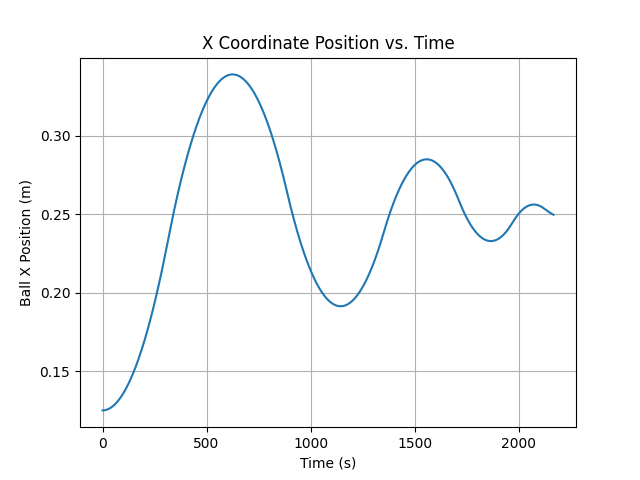
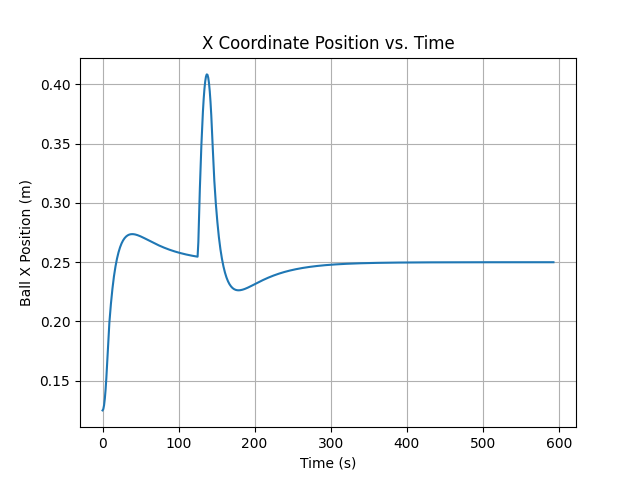
Added force buttons

diff --git a/custom_simulation/main.py b/custom_simulation/main.py
@@ -1,14 +1,16 @@
-# LIBRARY IMPORTS
-from utility_functions import pixelMeasurementToMetresMeasurement, metresMeasurementToPixelMeasurement
-from gui import createPlatformGUI, createLegsGUI
+# ================ LIBRARY IMPORTS ================
+
+# Personally Created Libraries
+from utility_functions import pixelMeasurementToMetresMeasurement, metresMeasurementToPixelMeasurement, calculateAllImportantPoints
+from gui import createPlatformGUI, createLegsGUI, createButtonGUI
 from ball_object import Ball
 from platform_object import Platform
 from pid import PID_Controller
 from dynamics_and_kinematics import angleOfTiltToAcceleration, distanceMoved, finalVelocity
 from plot_data import plotPidOutputAndBallPositionTimeseries, plotBallPositionTimeseries
 
-import time
-
+# Third Party Libraries
+from tkinter import *
 
 # ================ CONSTANTS ================
 
@@ -19,33 +21,45 @@ screenHeight = 500  # pixels
 # Environment
 gravity = 9.81  # m/s^s
 distanceScale = screenWidth * 2  # 1 metre = 1000 pixels
-sampleTime = 0.025
+sampleTime = 0.025  # Rate at which the position measurements occur
+appliedAcceleration = 40000.0  # pixels/s^2 - The acceleration value that is applied to the ball when a button is clicked
 
 # Ball Properties
 ballMass = 0.45  # kg
 ballRadius = 0.02  # metres
 
 # Platform Preconditions
-startingPlatformAngleOfRotationInX = 0  # 0 degrees
-startingPlatformAngleOfRotationInY = 0  # 0 degrees
+startingPlatformAngleOfRotationInX = 0  # degrees
+startingPlatformAngleOfRotationInY = 0  # degrees
 
 # Ball Preconditions
-startingXPosition = screenWidth / 4  # pixels
-startingYPosition = screenHeight / 4  # pixels
+startingXPosition = screenWidth * 3/4  # pixels
+startingYPosition = screenHeight * 3/4  # pixels
 startingXVelocity = 0  # pixels/s
 startingYVelocity = 0  # pixels/s
 startingXAcceleration = 0  # pixels/s^2
 startingYAcceleration = 0  # pixels/s^2
 
 # PID Properties
-kp = 10
-ki = 0.005
-kd = 7
-outputLowerLimit = -30  # degrees
-outputUpperLimit = 30  # degrees
-setPointX = screenWidth/2  # pixels
-setPointY = screenHeight/2  # pixels
+kp = 1  # Proportional gain
+ki = 0.8  # Integral gain
+kd = 0.25  # Derivative gain
+outputLowerLimit = -30  # degrees - Sets the minimum angle of platform rotation
+outputUpperLimit = 30  # degrees - Sets the maximum angle of platform rotation
+setPointX = screenWidth/2  # pixels - Where you want the ball to end up in the X coordinate system
+setPointY = screenHeight/2  # pixels - Where you want the ball to end up in the Y coordinate system
 
+# Leg Constants
+distanceScaleLegs = screenWidth * 4  # 1 metre = 2000 pixels
+margin = 100  # Offsets drawings so that they aren't next to the GUI border
+L1 = 0.0225  # 22.5 mm - Length of the lower link
+L2 = 0.120  # 120 mm - Length of the upper link
+platformWidth = 0.160  # 160 mm
+halfPlatformWidth = platformWidth / 2
+rotationPointRadius = 5  # For drawings
+origin_x = margin
+origin_y = (screenHeight - margin)
+theta = 30
 
 # ================ CREATING MONITORING OBJECTS ================
 
@@ -61,12 +75,12 @@ systemData = {
 
 # Setting the measured distance value that is close enough 
 # to the set point for it to be considered as satisfactory
-nearSetpointCriteria = 1  # pixels
+nearSetpointCriteria = 5  # pixels
 
 # Setting the number of consequtive setpoint satisfactions
 # it will take for the system to end the program and display
 # the plots
-simulationFinished = 50  # Ball needs to be near the setpoint for 2 seconds straight
+simulationFinished = 200  # Ball needs to be near the setpoint for 2 seconds straight
 
 timeCyclesCounter = 0
 timeSeries = []  # Will be a list of the timestamps throughout the simulation
@@ -117,14 +131,99 @@ pidY = PID_Controller(
 tkRoot, canvas = createPlatformGUI(screenWidth, screenHeight)
 
 # Creating the first leg GUI
-windowLeg1, leg1Canvas = createLegsGUI(1, screenWidth=screenWidth, screenHeight=screenHeight)
-
+legXWindow, legXCanvas = createLegsGUI(1, screenWidth=screenWidth, screenHeight=screenHeight)
 
 # Creating the second leg GUI
-windowLeg2, leg2Canvas = createLegsGUI(2, screenWidth=screenWidth, screenHeight=screenHeight)# windowLeg2, leg2Canvas = createLegsGUI()
+legYWindow, legYCanvas = createLegsGUI(2, screenWidth=screenWidth, screenHeight=screenHeight)
+
+# Creating the button GUI
+buttonsWindow, buttonsCanvas = createButtonGUI(screenWidth=screenWidth, screenHeight=screenHeight)
+
+# ================ DRAWING INITIAL CANVAS OBJECTS ================
 
 # Drawing the ball in it's initial location
 ballOval = canvas.create_oval(ball.xPosition - ball.radius, ball.yPosition - ball.radius, ball.xPosition + ball.radius, ball.yPosition + ball.radius, fill='red')
+
+# Calculating important points for the legs GUI
+x1, y1, x2, y2, x3, y3, x4, y4 = calculateAllImportantPoints(origin_x, origin_y, distanceScaleLegs, halfPlatformWidth, platform.angleOfRotationInX, theta, L1)
+# Drawing platform rotation point on leg X canvas
+platformRotationPointLegX = legXCanvas.create_oval(x3 - rotationPointRadius, y3 - rotationPointRadius, x3 + rotationPointRadius, y3 + rotationPointRadius, fill='black')
+# Drawing platform rotation point on leg X canvas
+platformRotationPointLegY = legYCanvas.create_oval(x3 - rotationPointRadius, y3 - rotationPointRadius, x3 + rotationPointRadius, y3 + rotationPointRadius, fill='black')
+# Drawing platform line 1 on leg X canvas
+platformLine1LegX = legXCanvas.create_line(x2, y2, x3, y3, width=5)
+# Drawing platform line 2 on leg X canvas
+platformLine2LegX = legXCanvas.create_line(x3, y3, x4, y4, width=5)
+# Drawing platform line 1 on leg Y canvas
+platformLine1LegY = legYCanvas.create_line(x2, y2, x3, y3, width=5)
+# Drawing platform line 2 on leg Y canvas
+platformLine2LegY = legYCanvas.create_line(x3, y3, x4, y4, width=5)
+
+def applyForceInPositiveX():
+    print("Applying Force In +X")
+    ball.xAcceleration = appliedAcceleration
+
+def applyForceInNegativeX():
+    print("Applying Force In -X")
+    ball.xAcceleration = (-1) * appliedAcceleration
+
+def applyForceInPositiveY():
+    print("Applying Force In -Y")
+    ball.yAcceleration = appliedAcceleration
+
+def applyForceInNegativeY():
+    print("Applying Force In +Y")
+    ball.yAcceleration = (-1) * appliedAcceleration
+
+
+# Creating buttons on the button window
+# Note that, from the viewer's perspective, the Y directions are flipped and because of
+# this, the button labels and print messages in the Y direction are also flipped
+forceInPositiveXButton = Button(buttonsWindow, text="Apply Force In +X", command=applyForceInPositiveX).grid()
+forceInNegativeXButton = Button(buttonsWindow, text="Apply Force In -X", command=applyForceInNegativeX).grid()
+forceInNegativeYButton = Button(buttonsWindow, text="Apply Force In +Y", command=applyForceInNegativeY).grid()
+forceInPositiveYButton = Button(buttonsWindow, text="Apply Force In -Y", command=applyForceInPositiveY).grid()
+
+
+def updateLegX(alpha, theta=30):
+    # Defining global variables
+    global legXWindow, legXCanvas
+    global x1, y1, x2, y2, x3, y3, x4, y4
+    global platformLine1LegX, platformLine2LegX
+
+    x1, y1, x2, y2, x3, y3, x4, y4 = calculateAllImportantPoints(origin_x, origin_y, distanceScaleLegs, halfPlatformWidth, alpha, theta, L1)
+
+    # ================ RE-DRAWING SYSTEM ================
+
+    # Removing everything
+    legXCanvas.delete(platformLine1LegX)
+    legXCanvas.delete(platformLine2LegX)
+
+    # Platform Line 1
+    platformLine1LegX = legXCanvas.create_line(x2, y2, x3, y3, width=5)
+    # Platform Line 2
+    platformLine2LegX = legXCanvas.create_line(x3, y3, x4, y4, width=5)
+
+
+def updateLegY(alpha, theta=30):
+    # Defining global variables
+    global legYWindow, legYCanvas
+    global x1, y1, x2, y2, x3, y3, x4, y4
+    global platformLine1LegY, platformLine2LegY
+
+    x1, y1, x2, y2, x3, y3, x4, y4 = calculateAllImportantPoints(origin_x, origin_y, distanceScaleLegs, halfPlatformWidth, alpha, theta, L1)
+
+    # ================ RE-DRAWING SYSTEM ================
+
+    # Removing everything
+    legYCanvas.delete(platformLine1LegY)
+    legYCanvas.delete(platformLine2LegY)
+
+    # Platform Line 1
+    platformLine1LegY = legYCanvas.create_line(x2, y2, x3, y3, width=5)
+    # Platform Line 2
+    platformLine2LegY = legYCanvas.create_line(x3, y3, x4, y4, width=5)
+
 
 def controller():
     # Defining global variables
@@ -153,14 +252,18 @@ def controller():
     # to be considered satisfactory
     if abs(ball.xPosition - setPointX) <= nearSetpointCriteria:
         systemData['xAccuracy']['consequtiveMeasurmentsNearSetpoint'] += 1
+    else:
+        systemData['xAccuracy']['consequtiveMeasurmentsNearSetpoint'] = 0
     
     if abs(ball.yPosition - setPointY) <= nearSetpointCriteria:
         systemData['yAccuracy']['consequtiveMeasurmentsNearSetpoint'] += 1
+    else:
+        systemData['yAccuracy']['consequtiveMeasurmentsNearSetpoint'] = 0
     
     # Checking to see if the ball has been near the setpoint (in both the x and y coordinate)
     # for the simulation to end and for the plots to be shown
-    xCondition = systemData['xAccuracy']['consequtiveMeasurmentsNearSetpoint'] == simulationFinished
-    yCondition = systemData['yAccuracy']['consequtiveMeasurmentsNearSetpoint'] == simulationFinished
+    xCondition = systemData['xAccuracy']['consequtiveMeasurmentsNearSetpoint'] > simulationFinished
+    yCondition = systemData['yAccuracy']['consequtiveMeasurmentsNearSetpoint'] > simulationFinished
 
     if xCondition and yCondition:
         # Ball has been at the setpoint for a sufficient amount of time
@@ -168,10 +271,10 @@ def controller():
         # tkRootLegs.destroy()
 
         # Create plots
-        # plotPidOutputAndPositionTimeseries('X', timeSeries, positionXData, pidXOutputData)
-        # plotPidOutputAndPositionTimeseries('Y', timeSeries, positionYData, pidYOutputData)
-        plotBallPositionTimeseries('X', timeSeries, positionXData)
-        plotBallPositionTimeseries('Y', timeSeries, positionYData)
+        plotPidOutputAndBallPositionTimeseries('X', timeSeries, positionXData, pidXOutputData)
+        plotPidOutputAndBallPositionTimeseries('Y', timeSeries, positionYData, pidYOutputData)
+        # plotBallPositionTimeseries('X', timeSeries, positionXData)
+        # plotBallPositionTimeseries('Y', timeSeries, positionYData)
 
         exit()
     
@@ -200,10 +303,12 @@ def controller():
         # of tilts to the outputs of the PID controllers
         platform.angleOfRotationInX = pidX.getOutput(ball.xPosition)
         platform.angleOfRotationInY = pidY.getOutput(ball.yPosition)
+        updateLegX(platform.angleOfRotationInX)
+        updateLegY(platform.angleOfRotationInY)
 
         # Updating the ball acceleration states
-        ball.xAcceleration = angleOfTiltToAcceleration(gravity, platform.angleOfRotationInX)
-        ball.yAcceleration = angleOfTiltToAcceleration(gravity, platform.angleOfRotationInY)
+        ball.xAcceleration = metresMeasurementToPixelMeasurement(distanceScale, angleOfTiltToAcceleration(gravity, platform.angleOfRotationInX))
+        ball.yAcceleration = metresMeasurementToPixelMeasurement(distanceScale, angleOfTiltToAcceleration(gravity, platform.angleOfRotationInY))
 
         # Adding the calculated values to the data lists
         timeSeries.append(timeCyclesCounter)
@@ -217,7 +322,7 @@ def controller():
         tkRoot.after(int(sampleTime*1000), controller)  # Re-run this function after interval (in milliseconds)
 
 
-tkRoot.after(3000, controller)  # Begin the loop of getting control feedback
+tkRoot.after(15000, controller)  # Begin the loop of getting control feedback
 
 # Running the GUI
 tkRoot.mainloop()

diff --git a/custom_simulation/gui.py b/custom_simulation/gui.py
@@ -24,64 +24,25 @@ def createPlatformGUI(screenWidth=500, screenHeight=500):
     return tkRoot, rootCanvas
 
 def createLegsGUI(legNumber, screenWidth=500, screenHeight=500, theta=30, alpha=7.854):
-    # Constants
-    distanceScaleLegs = screenWidth * 4  # 1 metre = 2000 pixels
-    margin = 100
-    L1 = 0.0225  # 22.5 mm
-    L2 = 0.120  # 120 mm
-    platformWidth = 0.160  # 160 mm
-    halfPlatformWidth = platformWidth / 2
-    rotationPointRadius = 5
-
     # Creating the legs window
     legsWindow = Toplevel()
     legsWindow.title("Leg " + str(legNumber) + " Simulation")
 
-    # Creating root canvas
-    legsCanvas = Canvas(legsWindow, width=screenWidth, height=screenHeight)
-    legsCanvas.pack()
-
-    # ================ IMPORTANT POINTS ================
-
-    # Origin
-    origin_x = margin
-    origin_y = (screenHeight - margin)
-
-    # (x1, y1)
-    x1 = origin_x + (metresMeasurementToPixelMeasurement(distanceScaleLegs, L1) * math.cos(math.radians(theta)))
-    y1 = origin_y - (metresMeasurementToPixelMeasurement(distanceScaleLegs, L1) * math.sin(math.radians(theta)))
-
-    # (x3, y3)
-    x3 = origin_x + (metresMeasurementToPixelMeasurement(distanceScaleLegs, 0.090) * math.cos(math.radians(theta)))
-    y3 = origin_y - (metresMeasurementToPixelMeasurement(distanceScaleLegs, 0.120) * math.sin(math.radians(theta)))
-
-    # (x2, y2)
-    x2 = x3 - ((metresMeasurementToPixelMeasurement(distanceScaleLegs, halfPlatformWidth)) * math.cos(math.radians(alpha)))
-    y2 = y3 - ((metresMeasurementToPixelMeasurement(distanceScaleLegs, halfPlatformWidth)) * math.sin(math.radians(alpha)))
-
-    # (x4, y4)
-    x4 = x3 + ((metresMeasurementToPixelMeasurement(distanceScaleLegs, halfPlatformWidth)) * math.cos(math.radians(alpha)))
-    y4 = y3 + ((metresMeasurementToPixelMeasurement(distanceScaleLegs, halfPlatformWidth)) * math.sin(math.radians(alpha)))
-
-    # ================ DRAWING SYSTEM ================
-
-    # Servo Rotation Point
-    servoRotationPoint = legsCanvas.create_oval(origin_x - rotationPointRadius, origin_y - rotationPointRadius, origin_x + rotationPointRadius, origin_y + rotationPointRadius, fill='black')
-
-    # Lower Link
-    lowerLinkLine = legsCanvas.create_line(origin_x, origin_y, x1, y1, width=5)
-
-    # Upper Link
-    upperLinkLine = legsCanvas.create_line(x1, y1, x2, y2, width=5)
-
-    # Platform Rotation Point
-    platformRotationPoint = legsCanvas.create_oval(x3 - rotationPointRadius, y3 - rotationPointRadius, x3 + rotationPointRadius, y3 + rotationPointRadius, fill='black')
-
-    # Platform Line 1
-    platformLine1 = legsCanvas.create_line(x2, y2, x3, y3, width=5)
-
-    # Platform Line 2
-    platformLine2 = legsCanvas.create_line(x3, y3, x4, y4, width=5)
+    # Creating the leg canvas
+    legCanvas = Canvas(legsWindow, width=screenWidth, height=screenHeight)
+    legCanvas.pack()
 
     # Returning the new window
-    return legsWindow, legsCanvas
+    return legsWindow, legCanvas
+
+
+def createButtonGUI(screenWidth=500, screenHeight=500):
+    # Creating the buttons window
+    buttonsWindow = Toplevel()
+    buttonsWindow.title("Move The Ball")
+
+    # Creating the button canvas
+    buttonCanvas = Canvas(buttonsWindow, width=screenWidth, height=screenHeight)
+
+    # Returning the new window
+    return buttonsWindow, buttonCanvas

diff --git a/custom_simulation/utility_functions.py b/custom_simulation/utility_functions.py
@@ -1,3 +1,4 @@
+import math
 
 '''
     These conversion functions assume the distance scale is in pixels per metre
@@ -32,3 +33,27 @@ def printProgressBar (iteration, total, prefix='', suffix='', decimals=1, length
     # Print New Line on Complete
     if iteration == total:
         print()
+
+
+def calculateAllImportantPoints(origin_x, origin_y, distanceScale, halfPlatformWidth, alpha, theta, L1):
+    # (x1, y1)
+    x1 = origin_x + (metresMeasurementToPixelMeasurement(distanceScale, L1) * math.cos(math.radians(theta)))
+    y1 = origin_y - (metresMeasurementToPixelMeasurement(distanceScale, L1) * math.sin(math.radians(theta)))
+
+    # (x3, y3)
+    x3 = origin_x + (metresMeasurementToPixelMeasurement(distanceScale, 0.090) * math.cos(math.radians(theta)))
+    y3 = origin_y - (metresMeasurementToPixelMeasurement(distanceScale, 0.120) * math.sin(math.radians(theta)))
+
+    # (x2, y2)
+    x2 = x3 - ((metresMeasurementToPixelMeasurement(distanceScale, halfPlatformWidth)) * math.cos(
+        math.radians(alpha)))
+    y2 = y3 - ((metresMeasurementToPixelMeasurement(distanceScale, halfPlatformWidth)) * math.sin(
+        math.radians(alpha)))
+
+    # (x4, y4)
+    x4 = x3 + ((metresMeasurementToPixelMeasurement(distanceScale, halfPlatformWidth)) * math.cos(
+        math.radians(alpha)))
+    y4 = y3 + ((metresMeasurementToPixelMeasurement(distanceScale, halfPlatformWidth)) * math.sin(
+        math.radians(alpha)))
+
+    return x1, y1, x2, y2, x3, y3, x4, y4
